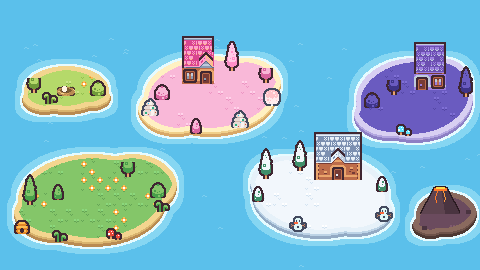
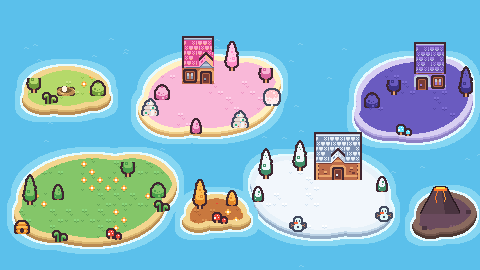
Add the Herbstinsel, a free island just for living

Changed region(s): [[0.3438, 0.6519, 0.5625, 0.8889]]

diff --git a/src/world.js b/src/world.js
@@ -61,10 +61,12 @@ export const BOSS_ISLAND = {
 // All islands on the map, the volcano island last.
 export const ALL_ISLANDS = [...ISLANDS, BOSS_ISLAND];
 
-// Islands without levels, where dragons just live. The Brutinsel has the nest with the dragon eggs.
+// Islands without levels, where dragons just live (free, always open). The Brutinsel has the nest
+// with the dragon eggs.
 // Drawn on the map by tools/make_assets.py (NEST_ISLAND); nest: where the nest sits in the island view.
 export const HOME_ISLANDS = [
   { name: 'Brutinsel', theme: 'nest', label: [66, 58], area: [66, 94, 48, 28], nest: { x: 240, y: 150 } },
+  { name: 'Herbstinsel', theme: 'autumn', label: [216, 248], area: [216, 214, 34, 22] },
 ];
 
 // The shop house: x, y is the bottom middle of the house; the dragon lands at its door.

diff --git a/tools/make_assets.py b/tools/make_assets.py
@@ -115,6 +115,7 @@ MAP_SWAP = {
              '#8b9bb4': '#e8f0f8', '#52607c': '#b9c8da'},
     'fire': {'#84c669': '#6b4b5e', '#65a556': '#57394c', '#8bd87d': '#80596f', '#479f4a': '#3f2838',
              '#f3d58f': '#8a6a5e', '#d9b46e': '#6e5249', '#b98b52': '#4e3832'},
+    'autumn': {'#84c669': '#c9783e', '#65a556': '#ad6233', '#8bd87d': '#dc9150', '#479f4a': '#8a4a26'},
     'nest': {'#84c669': '#b5d96a', '#65a556': '#93bf4f', '#8bd87d': '#cde68a', '#479f4a': '#6f9a3a'},
     'stars': {'#84c669': '#6a5bc0', '#65a556': '#5547a6', '#8bd87d': '#8070d6', '#479f4a': '#3e3488',
               '#e38628': '#ffd84a', '#fdbe53': '#fff0a0', '#5a6988': '#6b4fb0', '#8b9bb4': '#9c7fe0',
@@ -290,8 +291,8 @@ for idx, (isl, m) in enumerate(zip(ISLANDS, masks)):
     layer = recolor(layer, MAP_SWAP[isl['theme']])
     sea.alpha_composite(layer)
 
-# The Brutinsel: a small island without levels, where the dragon eggs are. Must match HOME_ISLANDS
-# in src/world.js. Its own random numbers, so the rest of the map stays the same.
+# Islands without levels: the Brutinsel (where the dragon eggs are) and the Herbstinsel. Must match
+# HOME_ISLANDS in src/world.js.
 def nest_pic(w):
     """A round straw nest, w pixels wide, seen from a bit above."""
     h = w // 2
@@ -309,28 +310,52 @@ def nest_pic(w):
     return outline(im, '#4e3832')
 
 
-NEST_ISLAND = {'blobs': [(66, 90, 42, 24), (44, 100, 22, 14), (92, 98, 18, 12)]}
-nest_rng = random.Random(5)
-m = blob_mask(NEST_ISLAND['blobs'])
-sea.paste(SHALLOW, (0, 0), ImageChops.subtract(grow(m, 7), ImageChops.multiply(grow(m, 7), m)))
-sea.paste(FOAM, (0, 0), ImageChops.subtract(grow(m, 2), m))
-layer = Image.new('RGBA', (W, H))
-top = ImageChops.multiply(ImageChops.offset(m, 0, -5), m)
-layer.paste(CLIFF, (0, 0), m)
-layer.paste(SAND_DARK, (0, 0), ImageChops.offset(top, 0, 2))
-layer.paste(SAND, (0, 0), top)
-tex = Image.new('RGBA', (W, H))
-for ty in range(0, H, 16):
-    for tx in range(0, W, 16):
-        tex.alpha_composite(tt(nest_rng.choice([0, 0, 0, 1, 2])), (tx, ty))
-layer.paste(tex, (0, 0), shrink(top, 4))
+def scatter_leaves(layer, where, count, seed):
+    """Fallen leaves (little 2-pixel marks in red, orange and yellow) on the `where` mask."""
+    rng = random.Random(seed)
+    d = ImageDraw.Draw(layer)
+    for _ in range(count * 4):
+        x, y = rng.randrange(0, W - 1), rng.randrange(0, H)
+        if where.getpixel((x, y)) and count > 0:
+            color = hexc(rng.choice(['#e84537', '#ffd84a', '#ff9a3c', '#fdbe53', '#b3261e']))
+            d.point((x, y), fill=color)
+            d.point((x + 1, y), fill=color)
+            count -= 1
+
+
+def home_island(blobs, theme, decor, seed):
+    """A small island without levels on the map, with its own random numbers so the rest of the map
+    stays the same. decor: (picture, x, y) with x/y the bottom-centre."""
+    rng = random.Random(seed)
+    m = blob_mask(blobs)
+    sea.paste(SHALLOW, (0, 0), ImageChops.subtract(grow(m, 7), ImageChops.multiply(grow(m, 7), m)))
+    sea.paste(FOAM, (0, 0), ImageChops.subtract(grow(m, 2), m))
+    layer = Image.new('RGBA', (W, H))
+    top = ImageChops.multiply(ImageChops.offset(m, 0, -5), m)
+    layer.paste(CLIFF, (0, 0), m)
+    layer.paste(SAND_DARK, (0, 0), ImageChops.offset(top, 0, 2))
+    layer.paste(SAND, (0, 0), top)
+    tex = Image.new('RGBA', (W, H))
+    for ty in range(0, H, 16):
+        for tx in range(0, W, 16):
+            tex.alpha_composite(tt(rng.choice([0, 0, 0, 1, 2])), (tx, ty))
+    layer.paste(tex, (0, 0), shrink(top, 4))
+    if theme == 'autumn':
+        scatter_leaves(layer, shrink(top, 4), 40, seed)
+    for pic, x, y in decor:
+        layer.alpha_composite(pic, (x - pic.width // 2, y - pic.height))
+    sea.alpha_composite(recolor(layer, MAP_SWAP[theme]))
+
+
 small_egg = Image.new('RGBA', (5, 6))
 ImageDraw.Draw(small_egg).ellipse([0, 0, 4, 5], fill=hexc('#fff3e0'))
 small_egg = outline(small_egg, '#4e3832')
-small_nest = nest_pic(18)
-for pic, x, y in [(TREE, 34, 94), (small_nest, 66, 96), (small_egg, 64, 92), (BUSH, 98, 96), (SPROUT, 50, 106)]:
-    layer.alpha_composite(pic, (x - pic.width // 2, y - pic.height))
-sea.alpha_composite(recolor(layer, MAP_SWAP['nest']))
+home_island([(66, 90, 42, 24), (44, 100, 22, 14), (92, 98, 18, 12)], 'nest',
+            [(TREE, 34, 94), (nest_pic(18), 66, 96), (small_egg, 64, 92), (BUSH, 98, 96), (SPROUT, 50, 106)], 5)
+# The Herbstinsel: a free island just for living, golden grass and autumn trees.
+AUTUMN_SMALL = tt(27)
+home_island([(216, 212, 30, 18), (198, 222, 16, 10), (236, 220, 14, 9)], 'autumn',
+            [(TALL_AUTUMN, 200, 210), (AUTUMN_SMALL, 232, 206), (MUSHROOMS, 220, 226)], 6)
 
 sea.save(f'{OUT}/map.png')
 nest_pic(40).save(f'{OUT}/nest.png')
@@ -405,6 +430,8 @@ BIG_DECOR = {
               (MUSHROOMS, 432, 196), (SMALL_PINE, 400, 110)],
     'nest': [(TREE, 62, 160), (TALL_PINE, 92, 140), (BUSH, 426, 120), (SPROUT, 48, 214), (MUSHROOMS, 432, 196),
              (SPROUT, 150, 228), (SMALL_PINE, 400, 110)],
+    'autumn': [(TALL_AUTUMN, 62, 160), (TALL_AUTUMN, 92, 140), (AUTUMN_SMALL, 426, 120), (MUSHROOMS, 48, 214),
+               (AUTUMN_SMALL, 432, 196), (MUSHROOMS, 150, 228), (TALL_AUTUMN, 400, 112)],
 }
 big_rng = random.Random(11)
 big_mask = blob_mask(BIG_ISLAND)
@@ -427,6 +454,8 @@ for theme, decor in BIG_DECOR.items():
         for tx in range(0, W, 16):
             tex.alpha_composite(tt(big_rng.choice([0, 0, 0, 1, 1, 2] if theme == 'flowers' else [0, 0, 0, 1])), (tx, ty))
     layer.paste(tex, (0, 0), grass)
+    if theme == 'autumn':
+        scatter_leaves(layer, grass, 260, 12)
     for thing, x, y in sorted(decor, key=lambda e: e[2]):
         layer.alpha_composite(thing, (x - thing.width // 2, y - thing.height))
     pic.alpha_composite(recolor(layer, MAP_SWAP[theme]))

diff --git a/CLAUDE.md b/CLAUDE.md
@@ -54,8 +54,10 @@ through a rainbow at the end. The README has the player-facing description and t
   Residents (`src/objects/Resident.js`, `IslandScene.moveIn`): your dragons except the one you fly
   with live in the `home` decorations, in placing order; they stroll within `ROAM` of the door and
   sometimes go in. `moveIn` rebuilds them whenever a house is placed or put away.
-- Brutinsel: `HOME_ISLANDS` in `world.js` (islands without levels, always first in the island view;
-  `nest` = nest spot), drawn on the map by `make_assets.py` (`NEST_ISLAND`). `src/hatchery.js`:
+- Brutinsel and Herbstinsel (Anna wanted free islands just for living; Claude picked autumn):
+  `HOME_ISLANDS` in `world.js` (islands without levels, always first in the island view; `nest` =
+  nest spot), drawn on the map by `make_assets.py` (`home_island`; the autumn ones get
+  `scatter_leaves`). `src/hatchery.js`:
   `visitNest` (on showing the Brutinsel): an egg from an earlier day (`save.egg.day`, local date
   string) hatches into `save.hatchlings` (`{ id, name, shape, tint, born }`), then a new egg if
   `save.lastEgg` isn't today. Hatchlings are a shape from `dragons-white.png` (made by

diff --git a/README.md b/README.md
@@ -34,6 +34,7 @@ https://matf.github.io/browser-game/
   your bag until you place them on an island. Each house gets one of your other dragons (not the
   one flying with you) as a resident: it strolls around near its house and sometimes goes in. Tap
   it to see its name.
+- Herbstinsel (small island bottom middle, no levels, free): just for living and building.
 - Brutinsel (the small island top left, no levels): every day there is a new dragon egg in the nest,
   and the next day a baby hatches out of it: a new dragon in a colour no other dragon has, with its
   own name. When it hatches, you choose what it will spit. Babies stroll around the nest and grow
